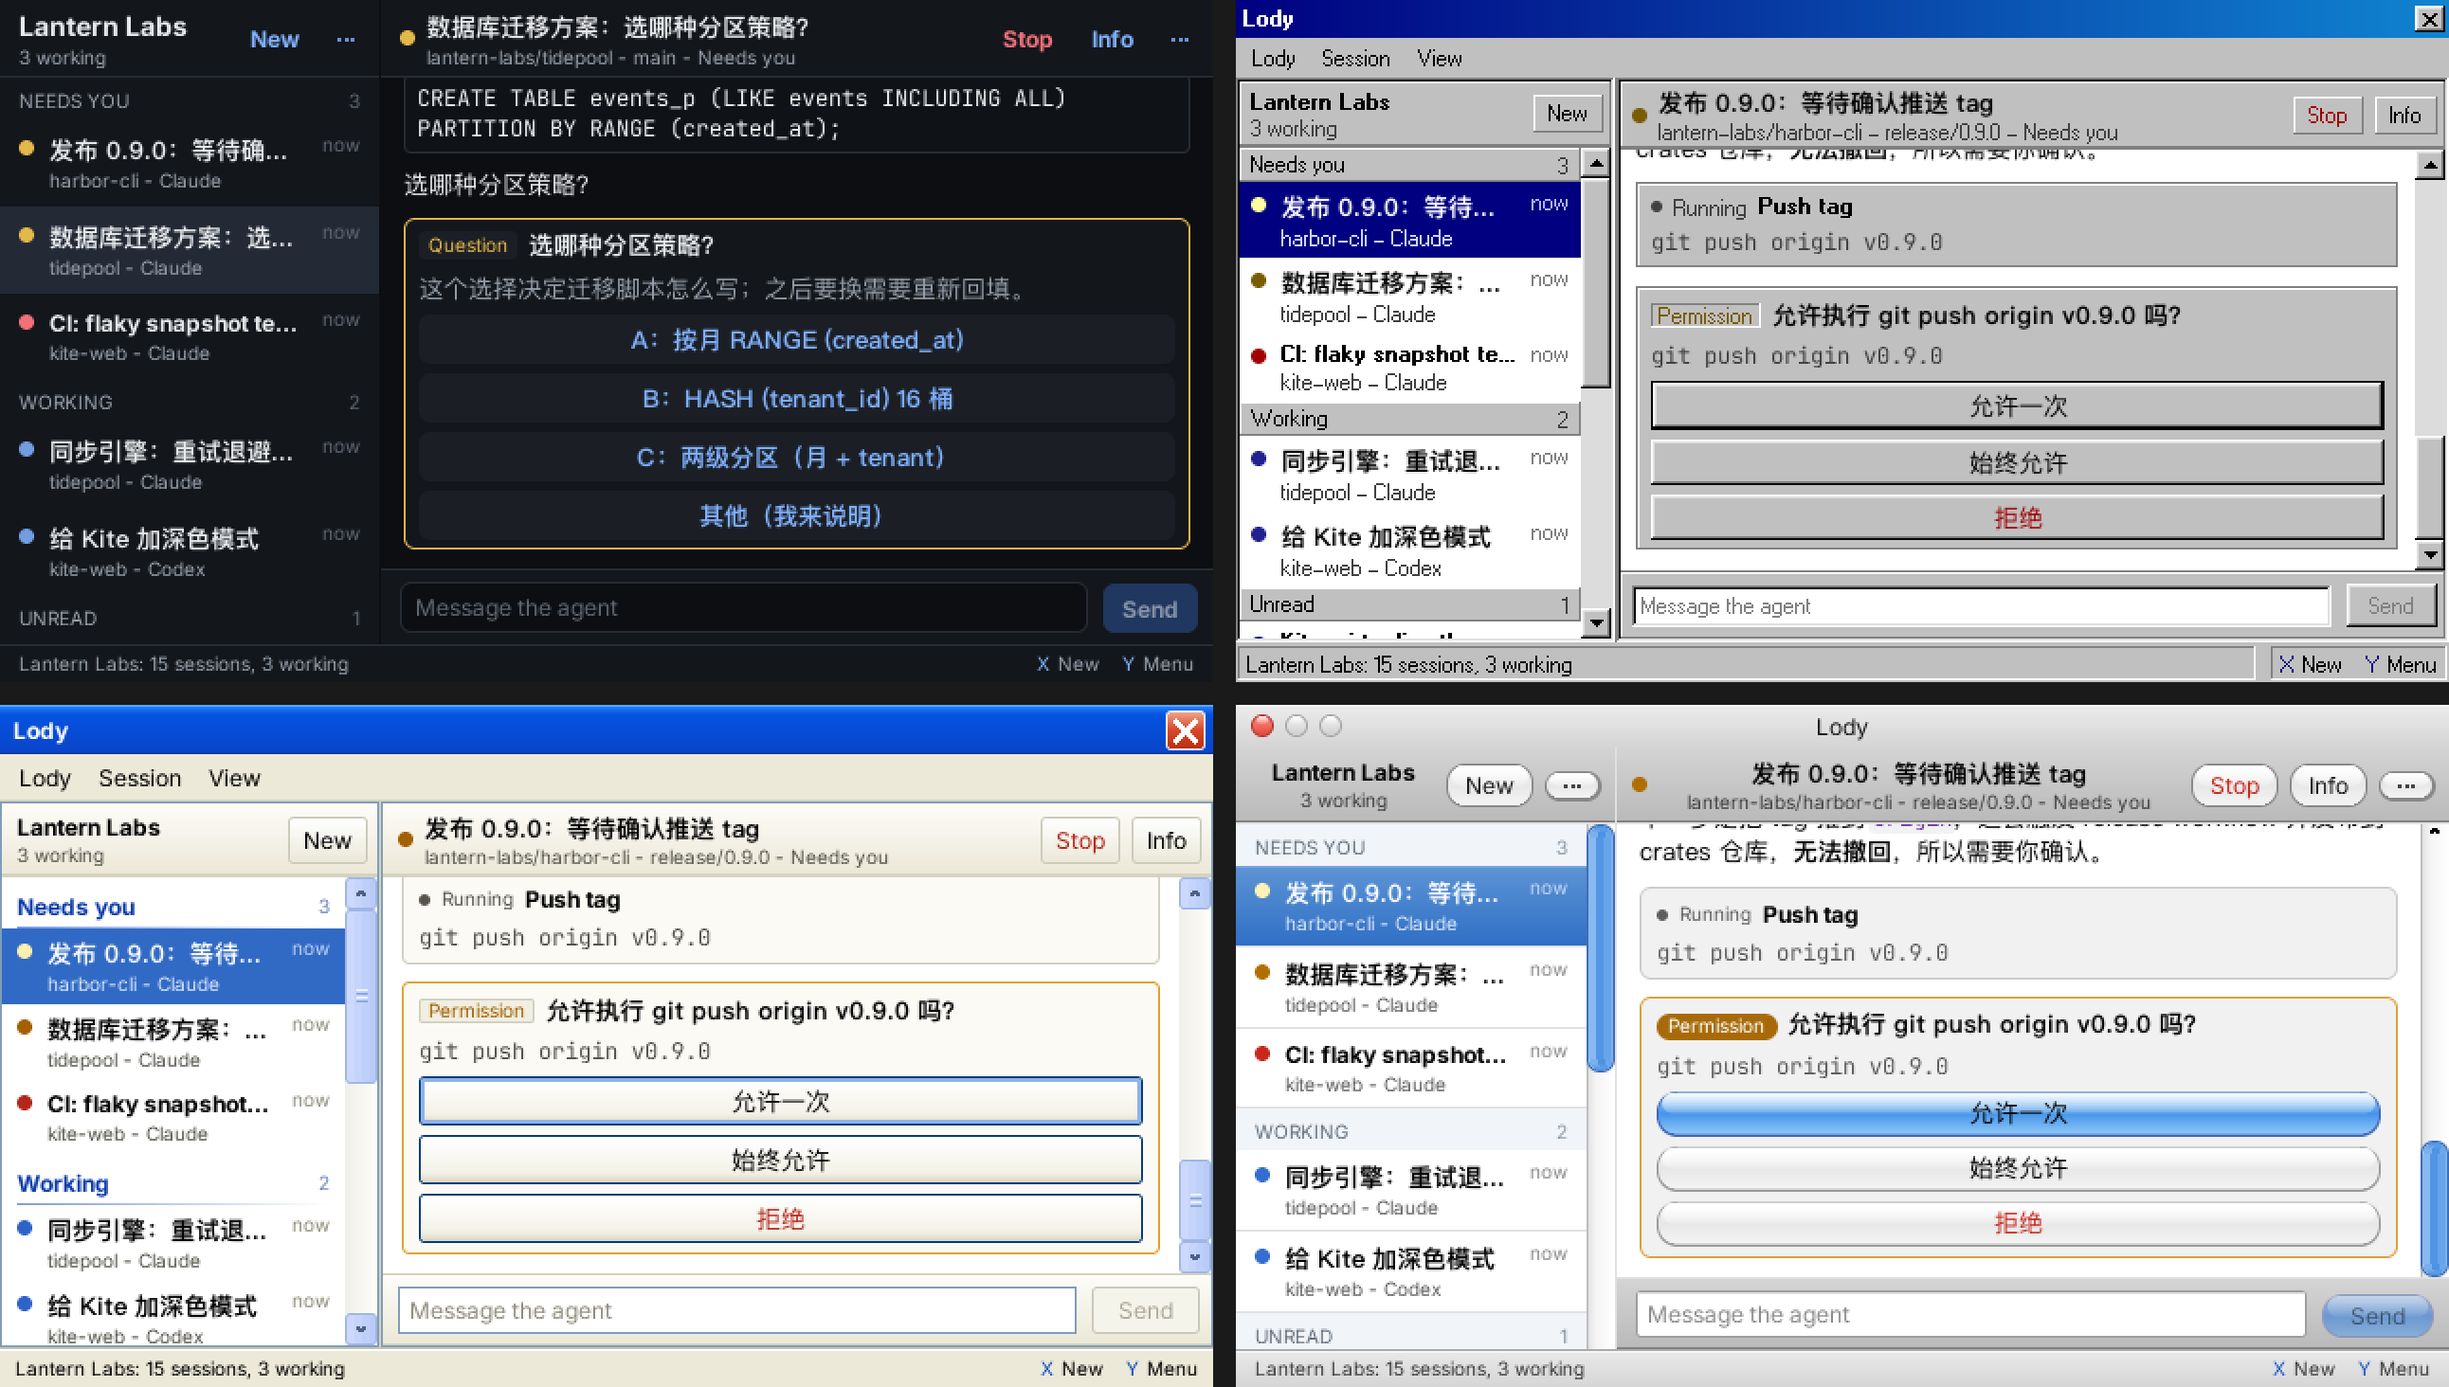
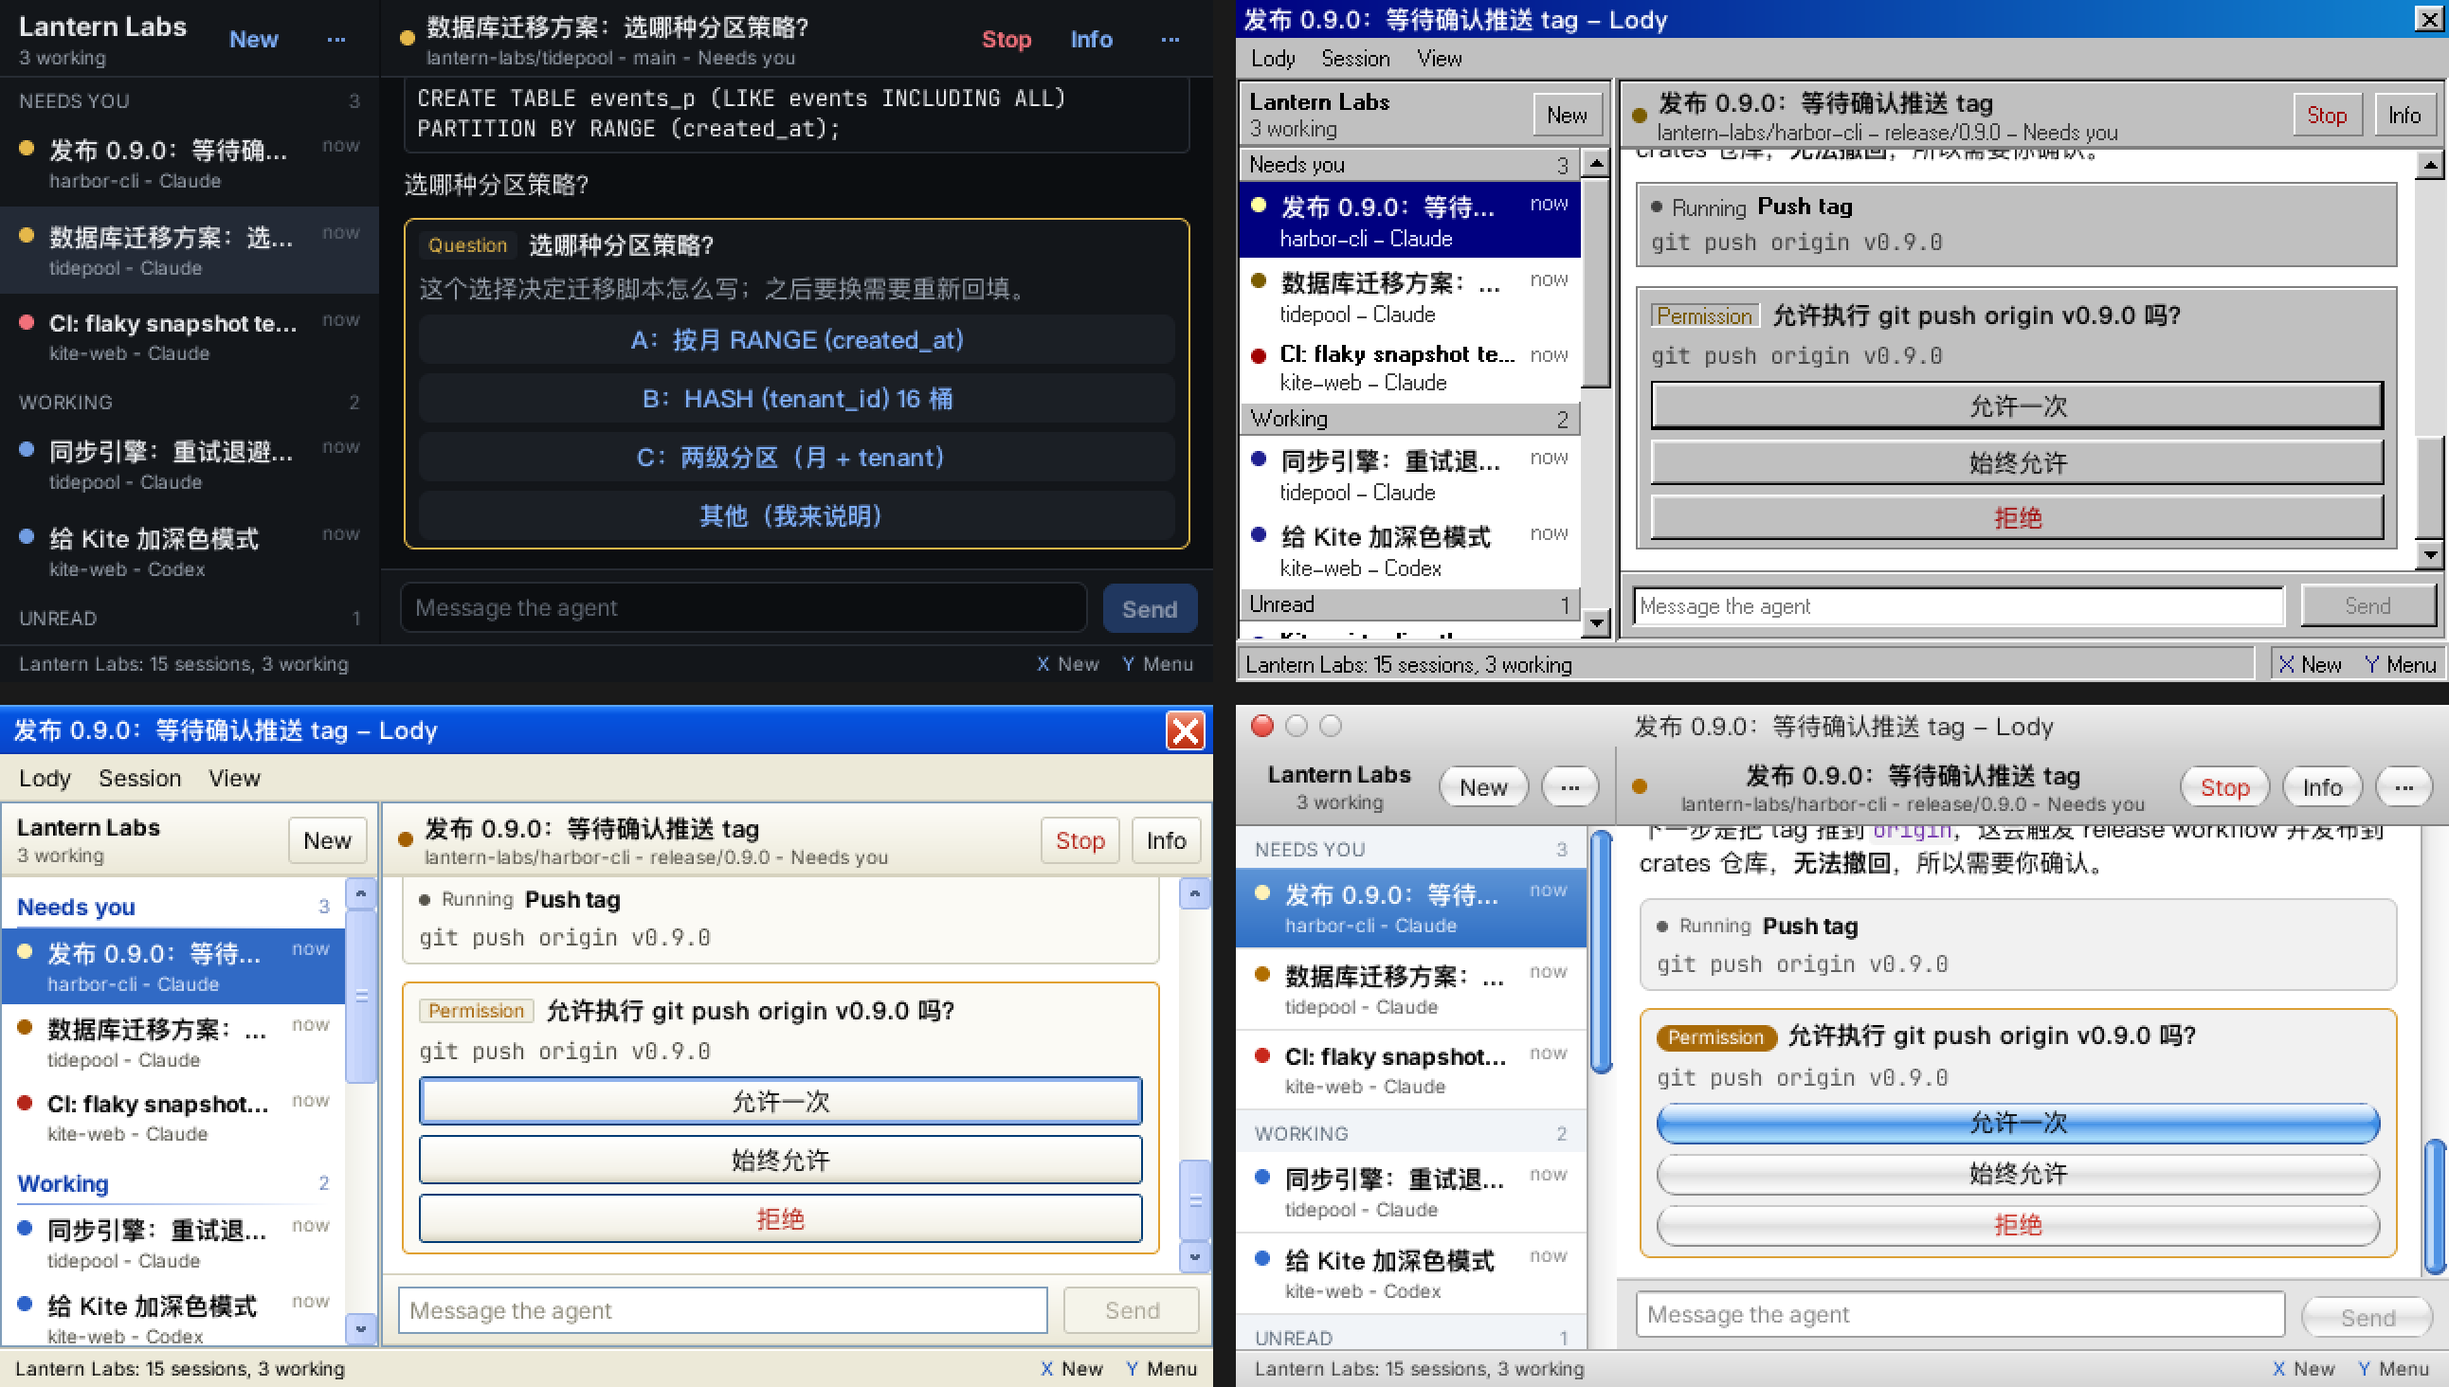
refactor(app): New Session says what it is made of; a test holds the views to semantics
The form is three Pickers, a field and its actions; it no longer builds
rows, a Cancel link or a wide Start button, so each theme sets it in its
own way. The pane with nothing open keeps its bar for themes whose bars
are one surface. app/semantic.test.ts fails if a view names a colour, an
edge, a radius or a theme. PocketUI moves to the commit that adds
Picker, actions and the reworked Aqua.

diff --git a/app/create.tsx b/app/create.tsx
@@ -1,60 +1,94 @@
 // pocket-lody/app/create.tsx — starting a session: which machine runs it,
-// which agent, in which project, and the first message. Each choice is a row
-// that opens a menu of what the workspace has; the last choices are offered
-// first.
+// which agent, in which project, and the first message.
+//
+// The form says what it is made of and nothing about how it looks: three
+// choices (Picker), a field, and what the task does and its way out
+// (present's `actions`). Whether a choice is a row that opens a list or a
+// label beside a popup, and whether Start is a wide button under the form or
+// the default button beside Cancel at its foot, is the theme's.
 import { createSignal, Show } from "solid-js";
-import { Button, present, presentMenu, Row, Text, TextEditor, VStack, type EditorHandle, type UI } from "../vendor/pocketui/src/index.ts";
+import { Picker, present, Text, TextEditor, VStack, type EditorHandle, type UI } from "../vendor/pocketui/src/index.ts";
 import type { CreateOptions } from "../protocol.ts";
 import type { AppState } from "./state.ts";
 
 export function presentCreate(ui: UI, app: AppState): void {
+  const [options, setOptions] = createSignal<CreateOptions | null>(null);
+  const [failure, setFailure] = createSignal("");
+  const [machine, setMachine] = createSignal<string | undefined>();
+  const [agent, setAgent] = createSignal<string | undefined>();
+  const [project, setProject] = createSignal<string | undefined>();
+  const [creating, setCreating] = createSignal(false);
+  const [empty, setEmpty] = createSignal(true);
+  let editor: EditorHandle | undefined;
+  app.store.options().then(setOptions, (error: unknown) => setFailure(error instanceof Error ? error.message : String(error)));
+  const machines = () => options()?.machines ?? [];
+  const theMachine = () => machines().find((entry) => entry.id === machine()) ?? machines().find((entry) => entry.online && entry.mine) ?? machines().find((entry) => entry.online) ?? machines()[0];
+  const agents = () => (options()?.agents ?? []).filter((entry) => !entry.machineId || entry.machineId === theMachine()?.id);
+  const theAgent = () => agents().find((entry) => entry.id === agent()) ?? agents()[0];
+  const projects = () => (options()?.projects ?? []).filter((entry) => !entry.machineId || entry.machineId === theMachine()?.id);
+  const theProject = () => projects().find((entry) => entry.id === project()) ?? projects()[0];
+  const create = () => {
+    const text = editor?.model.value().text.trim() ?? "";
+    const m = theMachine();
+    const a = theAgent();
+    if (!m || !a || creating()) return;
+    setCreating(true);
+    void app.store.create({ machine: m.id, agent: a.id, project: theProject()?.kind === "chat" ? undefined : theProject()?.id, text }).then((result) => {
+      setCreating(false);
+      if (!result.ok) return app.say(result.error ?? "The session was not started.", true);
+      sheet.dismiss();
+      if (result.session) app.select(result.session);
+    });
+  };
   const sheet = present(
     ui,
-    () => {
-      const [options, setOptions] = createSignal<CreateOptions | null>(null);
-      const [failure, setFailure] = createSignal("");
-      app.store.options().then(setOptions, (error: unknown) => setFailure(error instanceof Error ? error.message : String(error)));
-      const [machine, setMachine] = createSignal<string | undefined>();
-      const [agent, setAgent] = createSignal<string | undefined>();
-      const [project, setProject] = createSignal<string | undefined>();
-      const [creating, setCreating] = createSignal(false);
-      const [empty, setEmpty] = createSignal(true);
-      let editor: EditorHandle | undefined;
-      const machines = () => options()?.machines ?? [];
-      const theMachine = () => machines().find((entry) => entry.id === machine()) ?? machines().find((entry) => entry.online && entry.mine) ?? machines().find((entry) => entry.online) ?? machines()[0];
-      const agents = () => (options()?.agents ?? []).filter((entry) => !entry.machineId || entry.machineId === theMachine()?.id);
-      const theAgent = () => agents().find((entry) => entry.id === agent()) ?? agents()[0];
-      const projects = () => (options()?.projects ?? []).filter((entry) => !entry.machineId || entry.machineId === theMachine()?.id);
-      const theProject = () => projects().find((entry) => entry.id === project()) ?? projects()[0];
-      const choose = <T extends { id: string; name: string; detail?: string }>(title: string, list: T[], set: (id: string) => void, note?: (entry: T) => string | undefined) =>
-        presentMenu(ui, { title, items: () => list.map((entry) => ({ id: entry.id, title: entry.name, detail: entry.detail, trailing: note?.(entry), run: () => set(entry.id) })) });
-      const create = () => {
-        const text = editor?.model.value().text.trim() ?? "";
-        const m = theMachine();
-        const a = theAgent();
-        if (!m || !a || creating()) return;
-        setCreating(true);
-        void app.store.create({ machine: m.id, agent: a.id, project: theProject()?.kind === "chat" ? undefined : theProject()?.id, text }).then((result) => {
-          setCreating(false);
-          if (!result.ok) return app.say(result.error ?? "The session was not started.", true);
-          sheet.dismiss();
-          if (result.session) app.select(result.session);
-        });
-      };
-      return (
-        <VStack>
-          <Show when={options()} fallback={<Text tone="muted" padding={[10, ui.metric().gutter]}>{failure() || "Asking what this workspace has."}</Text>}>
-            <Row title={theMachine()?.name ?? "No machine"} eyebrow="Machine" trailing={theMachine()?.online === false ? "offline" : undefined} disclosure autoFocus onPress={() => choose("Machine", machines(), setMachine, (entry) => (entry.online ? undefined : "offline"))} name="create.machine" />
-            <Row title={theAgent()?.name ?? "No agent on this machine"} eyebrow="Agent" disclosure onPress={() => choose("Agent", agents(), setAgent)} name="create.agent" />
-            <Row title={theProject()?.name ?? "No project"} eyebrow="Project" disclosure onPress={() => choose("Project", projects(), setProject, (entry) => (entry.kind === "github" ? "GitHub" : entry.kind === "local" ? "local" : undefined))} name="create.project" />
-            <VStack padding={[6, ui.metric().gutter, 10, ui.metric().gutter]} spacing={8}>
-              <TextEditor ui={ui} part="field" placeholder="What should the agent do?" minLines={2} maxLines={4} enterSubmits={false} onChange={(snapshot) => setEmpty(snapshot.text.trim().length === 0)} handle={(handle) => { editor = handle; }} name="create.prompt" />
-              <Button label={creating() ? "Starting" : "Start Session"} kind="filled" disabled={creating() || empty() || !theMachine() || !theAgent()} onPress={create} name="create.start" />
-            </VStack>
-          </Show>
-        </VStack>
-      );
+    () => (
+      <VStack>
+        <Show when={options()} fallback={<Text tone="muted" padding={[10, ui.metric().gutter + 4]}>{failure() || "Asking what this workspace has."}</Text>}>
+          <Picker
+            label="Machine"
+            value={theMachine()?.name}
+            placeholder="No machine"
+            note={theMachine()?.online === false ? "offline" : undefined}
+            selected={theMachine()?.id}
+            options={() => machines().map((entry) => ({ id: entry.id, title: entry.name, trailing: entry.online ? undefined : "offline" }))}
+            onPick={setMachine}
+            autoFocus
+            name="create.machine"
+          />
+          <Picker
+            label="Agent"
+            value={theAgent()?.name}
+            placeholder="No agent on this machine"
+            selected={theAgent()?.id}
+            options={() => agents().map((entry) => ({ id: entry.id, title: entry.name, detail: entry.detail }))}
+            onPick={setAgent}
+            disabled={agents().length === 0}
+            name="create.agent"
+          />
+          <Picker
+            label="Project"
+            value={theProject()?.name}
+            placeholder="No project"
+            selected={theProject()?.id}
+            options={() => projects().map((entry) => ({ id: entry.id, title: entry.name, trailing: entry.kind === "github" ? "GitHub" : entry.kind === "local" ? "local" : undefined }))}
+            onPick={setProject}
+            name="create.project"
+          />
+          <VStack padding={[6, ui.metric().gutter + 4, 4, ui.metric().gutter + 4]}>
+            <TextEditor ui={ui} part="field" placeholder="What should the agent do?" minLines={2} maxLines={4} enterSubmits={false} onChange={(snapshot) => setEmpty(snapshot.text.trim().length === 0)} handle={(handle) => { editor = handle; }} name="create.prompt" />
+          </VStack>
+        </Show>
+      </VStack>
+    ),
+    {
+      style: "sheet",
+      title: "New Session",
+      maxHeight: Math.round(ui.size().height * 0.94),
+      actions: () => [
+        { label: "Cancel", role: "cancel" },
+        { label: creating() ? "Starting" : "Start Session", role: "primary", disabled: creating() || empty() || !theMachine() || !theAgent(), run: create },
+      ],
     },
-    { style: "sheet", title: "New Session", closeLabel: "Cancel", maxHeight: Math.round(ui.size().height * 0.94) },
   );
 }

diff --git a/app/semantic.test.ts b/app/semantic.test.ts
@@ -1,0 +1,32 @@
+// pocket-lody/app/semantic.test.ts — the application names what things are,
+// never how they look. This is what lets one source be drawn by every theme
+// PocketUI has: a view that named a colour, an edge, a radius or a theme
+// would be right in one of them and wrong in the rest.
+import { expect, test } from "bun:test";
+import { readdirSync, readFileSync } from "node:fs";
+import { join } from "node:path";
+
+const DIR = import.meta.dir;
+const VIEWS = readdirSync(DIR).filter((file) => file.endsWith(".tsx"));
+
+/** What only a theme may say. */
+const PAINT: [RegExp, string][] = [
+  [/#[0-9a-fA-F]{3,8}\b/, "a colour"],
+  [/\b(background|pressedBackground|focusedBackground|borderColor|borderWidth|radius|shadow|opacity)=/, "a paint prop"],
+  [/\bcolor=\{/, "a colour prop (say a tone)"],
+  [/\.theme\.(color|face|metric|compact|traits|id|paint|glyph)\b/, "a read of the theme"],
+  [/["'](pocket|classic|luna|aqua)["']/, "a theme by name"],
+];
+
+test("no view names a colour, an edge, a radius or a theme", () => {
+  expect(VIEWS.length).toBeGreaterThan(5);
+  const found: string[] = [];
+  for (const file of VIEWS) {
+    const lines = readFileSync(join(DIR, file), "utf8").split("\n");
+    lines.forEach((line, index) => {
+      if (line.trimStart().startsWith("//")) return;
+      for (const [pattern, what] of PAINT) if (pattern.test(line)) found.push(`${file}:${index + 1} names ${what}: ${line.trim().slice(0, 80)}`);
+    });
+  }
+  expect(found).toEqual([]);
+});

diff --git a/app/session.tsx b/app/session.tsx
@@ -34,7 +34,8 @@ export function SessionPane(props: { app: AppState; commands: Accessor<Command[]
   };
   return (
     <VStack ref={(instance) => { pane = instance; }}>
-      <Show when={app.selected()} fallback={<Placeholder title="No session open" detail="Pick a session from the list to read it and answer its agent." />} keyed>
+      {/* nothing open: the pane still has its bar, which a theme whose bars are one surface draws and the others leave out */}
+      <Show when={app.selected()} fallback={<VStack grow={1}><Bar title="" back={false} /><Placeholder title="No session open" detail="Pick a session from the list to read it and answer its agent." /></VStack>} keyed>
         {(sessionId) => {
           let feed: FeedHandle | undefined;
           const [atEnd, setAtEnd] = createSignal(true);

diff --git a/README.md b/README.md
@@ -18,10 +18,14 @@ The application names no colour, border or font. It says what things are (a bar,
 | --- | --- | --- | --- | --- |
 | New, Stop, Info | controls in the pane's bar | bar buttons, and the Lody / Session / View menus | the same | toolbar capsules, the rest behind "more" |
 | The title bar's close control | none | closes the open session; disabled when none is open | the same | the red light; the other two lights are drawn disabled |
-| New Session | a sheet from the bottom edge | a window with a title bar | the same | a window with a heading |
+| New Session | a sheet from the bottom edge: three rows that open lists, Cancel beside the heading, Start as a wide button | a window with a title bar: three combo boxes, Start and Cancel centred at the foot | the same, the buttons trailing | a window with a heading: three popups, Cancel then Start at the foot |
 | The transcript's scroll bar | a thumb while it moves | a strip with arrows | a strip with arrows and ridges | a strip with a blue capsule |
 
-The picture is the simulator at 640×360 on the fixture data. Classic is set in the pixel face the package carries (`app/pak.json`, `app/themes.ts`).
+<p align="center"><img src="docs/pocket-lody-form.webp" width="840" alt="The New Session form in the four themes, from one source: rows and a wide Start button in Pocket; combo boxes and centred buttons in Classic 98; combo boxes and trailing buttons in XP; popups with blue caps and Cancel before Start in Aqua"></p>
+
+`app/create.tsx` is that form: three `Picker`s, a field, and `actions`. `app/semantic.test.ts` fails if a view names a colour, an edge, a radius or a theme.
+
+The pictures are the simulator at 640×360 on the fixture data. Classic is set in the pixel face the package carries (`app/pak.json`, `app/themes.ts`).
 
 ## What it is made of
 
